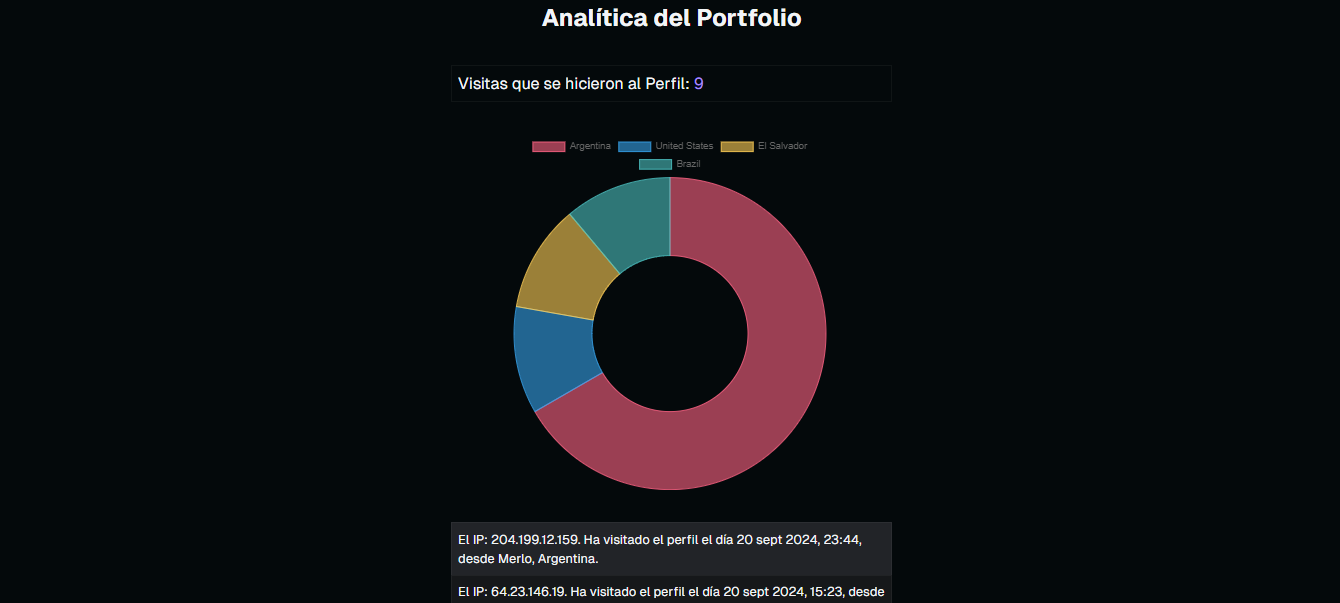
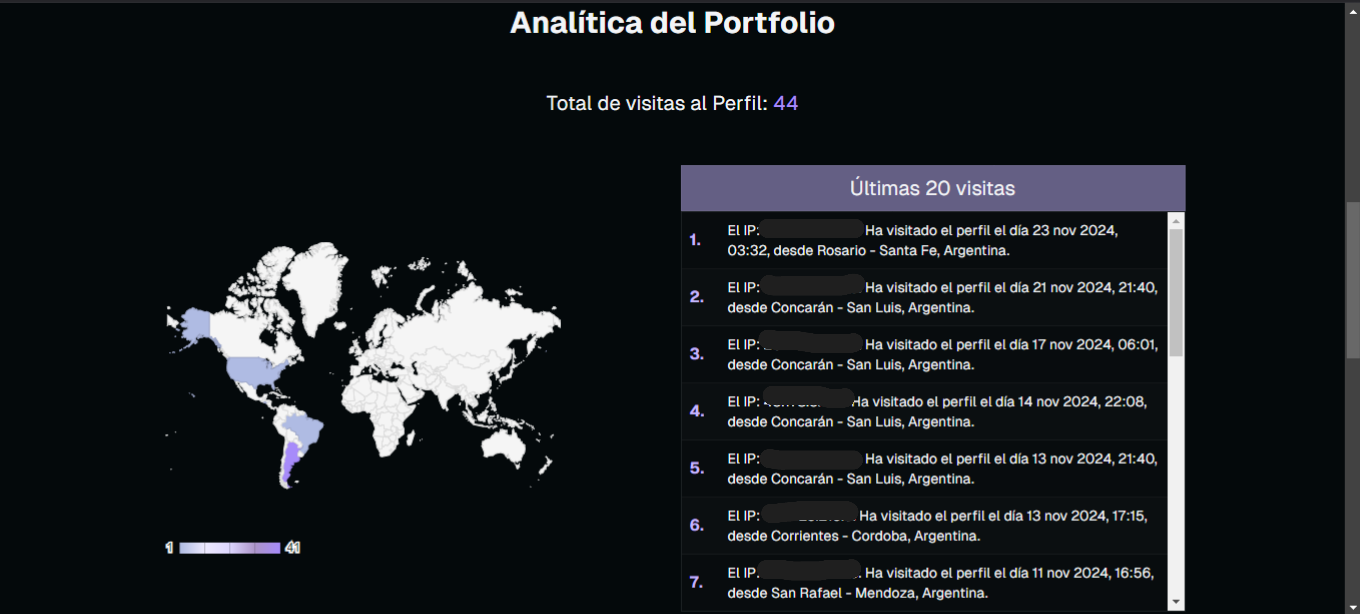
updated readme

diff --git a/README.md b/README.md
@@ -63,50 +63,50 @@ export default function ProfileClientAnalytics({ data }: { data: Array<any> }) {
   }
 
   // Se pasan los valores obtenidos al chart
-  const chartData = {
-    labels: Object.keys(visitsByCountry), // Le pasamos la llave
-    datasets: [
-      {
-        data: Object.values(visitsByCountry), // Luego los valores
-        backgroundColor: [
-          "rgba(255, 99, 132, 0.6)",
-          "rgba(54, 162, 235, 0.6)",
-          "rgba(255, 206, 86, 0.6)",
-          "rgba(75, 192, 192, 0.6)",
-          "rgba(153, 102, 255, 0.6)",
-          "rgba(255, 159, 64, 0.6)",
-        ],
-        borderColor: [
-          "rgba(255, 99, 132, 1)",
-          "rgba(54, 162, 235, 1)",
-          "rgba(255, 206, 86, 1)",
-          "rgba(75, 192, 192, 1)",
-          "rgba(153, 102, 255, 1)",
-          "rgba(255, 159, 64, 1)",
-        ],
-        borderWidth: 1,
-      },
-    ],
+  const chartData = [
+    ["Country", "Visits"],
+    ...Object.entries(visitsByCountry).map(([country, visits]) => [
+      country,
+      visits,
+    ]),
+  ];
+
+  const colorPalettes = {
+    ocean: ["#E6F2FF", "#BAE6FD", "#7DD3FC", "#38BDF8", "#0EA5E9"],
+    forest: ["#ECFDF5", "#D1FAE5", "#6EE7B7", "#10B981", "#059669"],
+    sunset: ["#FEF3C7", "#FDE68A", "#FCD34D", "#F59E0B", "#D97706"],
+    berry: ["#AFBBE3", "#EDE9FE", "#DDD6FE", "#AC94C9", "#A78BFA"],
+    monochrome: ["#F4F4F4", "#E5E5E5", "#A3A3A3", "#737373", "#404040"],
   };
 
-  // Y por último las opciones
   const chartOptions = {
-    responsive: true,
-    plugins: {
-      legend: {
-        position: "top" as const,
-      },
-      title: {
-        display: true,
-        text: "Visitas por País",
+    title: "Visitas por País",
+    backgroundColor: "#04090B",
+    colorAxis: {
+      colors: colorPalettes.berry,
+    },
+    legend: {
+      textStyle: {
+        color: "#333",
       },
     },
+    titleTextStyle: {
+      color: "#f4f4f4",
+    },
   };
-  // Renderizamos el componente, yo usé un Doughnut
+  // Renderizamos el componente, yo usé un Geo Chart de Google React Charts
   return (
-    <div className="my-10 w-full max-w-md mx-auto">
-      <Doughnut data={chartData} options={chartOptions} />
-    </div>
+    <Chart
+      chartType="GeoChart"
+      width="100%"
+      height="400px"
+      data={chartData}
+      options={{
+        ...chartOptions,
+        width: mobile ? 360 : 400,
+        height: 400,
+      }}
+    />
   );
 }
 ```
